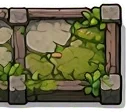
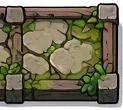
Solo losetas enteras y tropas de pie sobre la loseta
Las de la izquierda de cada pareja de la hoja no tenían el poste derecho y la última de cada fila salía cortada.

diff --git a/sw.js b/sw.js
@@ -2,8 +2,8 @@
 // Guarda el juego para poder jugar sin conexión. Página, JS y CSS van
 // primero a la red (así se ven los cambios al momento); imágenes y fuentes
 // salen de la caché y se renuevan por detrás.
-var CACHE = 'reino-de-torres-v76';
-var CORE = ['./', 'index.html', 'style.css', 'favicon.svg', 'manifest.json', 'js/data.js', 'js/version.js', 'js/art.js', 'js/meta.js', 'js/board.js', 'js/battle.js', 'js/ui.js', 'assets/ui/boton.webp', 'assets/ui/boton-jugar.webp', 'assets/ui/banner-mazo.webp', 'assets/ui/hueco-cofre.webp', 'assets/ui/boton-duelo.webp', 'assets/ui/boton-coop.webp', 'assets/ui/banner-comandante.webp', 'assets/ui/header.webp', 'assets/ui/navbar.webp', 'assets/ui/titulo.webp', 'assets/ui/letrero.webp', 'assets/tablero.webp', 'assets/enemies/blob.webp', 'assets/ui/fondo.webp', 'assets/ui/boton-invocar.webp', 'assets/ui/marco-carta.webp', 'assets/ui/carta.webp', 'assets/ui/vida.webp', 'assets/ui/mana.webp', 'assets/ui/contador-mana.webp', 'assets/ui/comandante.webp', 'assets/ui/boton-invocar-2.webp', 'assets/ui/boton-invocar-gris.webp', 'assets/ui/marco.webp', 'assets/ui/marco-tienda.webp', 'assets/ui/filtro-rareza.webp', 'assets/ui/filtro-rareza-h.webp?v=2', 'assets/ui/modo-campana.webp', 'assets/ui/modo-duelo.webp', 'assets/ui/modo-coop.webp', 'assets/ui/modo-torneo.webp', 'assets/ui/modo-coop-limpio.webp', 'assets/ui/modo-roguelike.webp', 'assets/chests/destello.webp', 'assets/chests/moneda.webp', 'assets/chests/oro-monedas.webp', 'assets/chests/oro-saco.webp', 'assets/chests/oro-cofre.webp', 'assets/commanders/aria.webp?v=2', 'assets/commanders/aria-cuerpo.webp', 'assets/commanders/merlo.webp?v=2', 'assets/commanders/merlo-cuerpo.webp', 'assets/commanders/brann.webp?v=2', 'assets/commanders/brann-cuerpo.webp', 'assets/commanders/nyx.webp', 'assets/commanders/nyx-cuerpo.webp', 'assets/commanders/sol.webp', 'assets/commanders/sol-cuerpo.webp', 'assets/commanders/morgana.webp', 'assets/commanders/morgana-cuerpo.webp', 'assets/commanders/torvald.webp', 'assets/commanders/torvald-cuerpo.webp', 'assets/events/eclipse.webp', 'assets/events/lluvia.webp', 'assets/events/niebla.webp', 'assets/events/horda.webp', 'assets/events/calma.webp', 'assets/boards/lava2.webp', 'assets/boards/hielo.webp', 'assets/boards/roca.webp', 'assets/boards/veneno.webp', 'assets/ui/tarjeta-tienda.webp', 'assets/ui/misiones.webp', 'assets/fx/eco-resuena.webp', 'assets/fx/fusion-eco.webp', 'assets/fx/oria-interes.webp', 'assets/fx/garra-lobo.webp', 'assets/fx/garra-lobo-2.webp', 'assets/ui/tarjeta-comandante-2.webp', 'assets/ui/arbol-talentos.webp', 'assets/ui/arbol-comandante.webp', 'assets/fx/nyx-maldicion.webp', 'assets/fx/nyx-chispas.webp', 'assets/fx/sol-escudo.webp', 'assets/fx/morgana-ensamblaje.webp', 'assets/fx/torvald-forja.webp', 'assets/fx/torvald-carga.webp', 'assets/fx/ventisca.webp', 'assets/fx/marea.webp', 'assets/fx/meteoro.webp', 'assets/fx/crater.webp', 'assets/fx/boreas-ventisca.webp', 'assets/fx/midas-critico.webp', 'assets/fx/estado-helado.webp', 'assets/fx/estado-armadura.webp', 'assets/fx/estado-quemado.webp', 'assets/fx/estado-veneno.webp', 'assets/fx/estado-critico.webp', 'assets/fx/estado-aturdido.webp', 'assets/chests/oro-rebosante.webp', 'assets/tiles/altar.webp', 'assets/tiles/fuente.webp', 'assets/tiles/atalaya.webp', 'assets/fx/muerte-puf.webp', 'assets/fx/invocar.webp', 'assets/fx/fusion.webp', 'assets/fx/fusion-doblon.webp', 'assets/fx/mover.webp', 'assets/fx/ralentizado-1.webp', 'assets/fx/ralentizado-2.webp', 'assets/fx/ralentizado-3.webp', 'assets/fx/ralentizado-4.webp', 'assets/fx/ralentizado-5.webp', 'assets/fx/conector-fuego.webp', 'assets/fx/conector-hielo.webp', 'assets/fx/conector-naturaleza.webp', 'assets/fx/conector-arcano.webp', 'assets/fx/conector-metal.webp', 'assets/ui/cartel-entrada.webp', 'assets/ui/cartel-salida.webp'].concat(['lyra', 'brasa', 'nivea', 'doblon', 'rocco', 'volta', 'mirra', 'melodia', 'sombra', 'cronos', 'halcon', 'ulric', 'fenix', 'aurora', 'titan', 'boreas', 'midas', 'kaia', 'seren', 'oria', 'garra'].map(function (id) { return 'assets/cells/' + id + '.webp'; })).concat(['piedra-1'].map(function (k) { return 'assets/tiles/' + k + '.webp?v=2'; })).concat([['bosque', 12], ['lava', 12], ['hielo', 4], ['veneno', 12], ['roca', 12]].reduce(function (a, t) { for (var n = 1; n <= t[1]; n++) a.push('assets/tiles/' + t[0] + '-' + n + '.webp?v=2'); return a; }, [])).concat(['comun', 'rara', 'epica', 'mitica', 'legendaria'].map(function (k) { return 'assets/ui/tienda-' + k + '.webp'; })).concat(['lyra', 'brasa', 'nivea', 'doblon', 'rocco', 'volta', 'mirra', 'melodia', 'sombra', 'cronos', 'halcon', 'ulric', 'fenix', 'aurora', 'titan', 'boreas', 'midas', 'kaia', 'seren', 'eco', 'oria', 'garra'].map(function (id) { return 'assets/units/' + id + '.webp'; })).concat(['lyra', 'brasa', 'nivea', 'doblon', 'rocco', 'volta', 'mirra', 'melodia', 'sombra', 'cronos', 'halcon', 'ulric', 'fenix', 'aurora', 'titan', 'boreas', 'midas', 'kaia', 'seren'].reduce(function (a, id) { return a.concat(['assets/units/board/' + id + '-idle.webp?v=3', 'assets/units/board/' + id + '-attack.webp']); }, [])).concat(['eco', 'oria', 'garra'].map(function (id) { return 'assets/units/board/' + id + '-idle.webp?v=3'; })).concat(['madera', 'plata', 'oro', 'comandante', 'legendario'].reduce(function (a, k) { return a.concat(['assets/chests/' + k + '.webp', 'assets/chests/' + k + '-abierto.webp', 'assets/chests/portal-' + k + '.webp']); }, ['assets/chests/legendario-abriendo.webp']).concat(['comun', 'rara', 'epica', 'mitica', 'legendaria'].reduce(function (a, k) { return a.concat(['assets/ui/fondo-carta-' + k + '.webp', 'assets/ui/cinta-' + k + '.webp']); }, []))).concat(['fuego', 'hielo', 'veneno', 'canon', 'flecha', 'rayo', 'sombra', 'engranaje', 'bala', 'luz'].reduce(function (a, k) { return a.concat(['destello', 'bola', 'impacto'].map(function (p) { return 'assets/fx/' + k + '-' + p + '.webp'; })); }, [])).concat(['moneda', 'gema', 'trofeo', 'estrella', 'gota', 'corona', 'espadas', 'escudo', 'candado', 'pergamino', 'ticket', 'reloj', 'fuego', 'hielo', 'hoja', 'arcano', 'engranaje', 'explosion', 'veneno', 'rayo', 'critico', 'perfora', 'musica', 'diana', 'grafico', 'vecinas', 'chispas', 'calavera', 'ola', 'rival-facil', 'rival-normal', 'rival-dificil', 'derrota', 'sonido', 'silencio', 'rapido', 'reiniciar', 'casa', 'aviso', 'mano', 'dado', 'recolocar', 'mejorar'].map(function (k) { return 'assets/icons/' + k + '.webp'; })).concat(['ghost', 'brute', 'orco', 'rocoso', 'escarcha', 'gelido', 'coloso', 'coloso2', 'nigro', 'dragon'].map(function (id) { return 'assets/enemies/' + id + '.webp'; }));
+var CACHE = 'reino-de-torres-v77';
+var CORE = ['./', 'index.html', 'style.css', 'favicon.svg', 'manifest.json', 'js/data.js', 'js/version.js', 'js/art.js', 'js/meta.js', 'js/board.js', 'js/battle.js', 'js/ui.js', 'assets/ui/boton.webp', 'assets/ui/boton-jugar.webp', 'assets/ui/banner-mazo.webp', 'assets/ui/hueco-cofre.webp', 'assets/ui/boton-duelo.webp', 'assets/ui/boton-coop.webp', 'assets/ui/banner-comandante.webp', 'assets/ui/header.webp', 'assets/ui/navbar.webp', 'assets/ui/titulo.webp', 'assets/ui/letrero.webp', 'assets/tablero.webp', 'assets/enemies/blob.webp', 'assets/ui/fondo.webp', 'assets/ui/boton-invocar.webp', 'assets/ui/marco-carta.webp', 'assets/ui/carta.webp', 'assets/ui/vida.webp', 'assets/ui/mana.webp', 'assets/ui/contador-mana.webp', 'assets/ui/comandante.webp', 'assets/ui/boton-invocar-2.webp', 'assets/ui/boton-invocar-gris.webp', 'assets/ui/marco.webp', 'assets/ui/marco-tienda.webp', 'assets/ui/filtro-rareza.webp', 'assets/ui/filtro-rareza-h.webp?v=2', 'assets/ui/modo-campana.webp', 'assets/ui/modo-duelo.webp', 'assets/ui/modo-coop.webp', 'assets/ui/modo-torneo.webp', 'assets/ui/modo-coop-limpio.webp', 'assets/ui/modo-roguelike.webp', 'assets/chests/destello.webp', 'assets/chests/moneda.webp', 'assets/chests/oro-monedas.webp', 'assets/chests/oro-saco.webp', 'assets/chests/oro-cofre.webp', 'assets/commanders/aria.webp?v=2', 'assets/commanders/aria-cuerpo.webp', 'assets/commanders/merlo.webp?v=2', 'assets/commanders/merlo-cuerpo.webp', 'assets/commanders/brann.webp?v=2', 'assets/commanders/brann-cuerpo.webp', 'assets/commanders/nyx.webp', 'assets/commanders/nyx-cuerpo.webp', 'assets/commanders/sol.webp', 'assets/commanders/sol-cuerpo.webp', 'assets/commanders/morgana.webp', 'assets/commanders/morgana-cuerpo.webp', 'assets/commanders/torvald.webp', 'assets/commanders/torvald-cuerpo.webp', 'assets/events/eclipse.webp', 'assets/events/lluvia.webp', 'assets/events/niebla.webp', 'assets/events/horda.webp', 'assets/events/calma.webp', 'assets/boards/lava2.webp', 'assets/boards/hielo.webp', 'assets/boards/roca.webp', 'assets/boards/veneno.webp', 'assets/ui/tarjeta-tienda.webp', 'assets/ui/misiones.webp', 'assets/fx/eco-resuena.webp', 'assets/fx/fusion-eco.webp', 'assets/fx/oria-interes.webp', 'assets/fx/garra-lobo.webp', 'assets/fx/garra-lobo-2.webp', 'assets/ui/tarjeta-comandante-2.webp', 'assets/ui/arbol-talentos.webp', 'assets/ui/arbol-comandante.webp', 'assets/fx/nyx-maldicion.webp', 'assets/fx/nyx-chispas.webp', 'assets/fx/sol-escudo.webp', 'assets/fx/morgana-ensamblaje.webp', 'assets/fx/torvald-forja.webp', 'assets/fx/torvald-carga.webp', 'assets/fx/ventisca.webp', 'assets/fx/marea.webp', 'assets/fx/meteoro.webp', 'assets/fx/crater.webp', 'assets/fx/boreas-ventisca.webp', 'assets/fx/midas-critico.webp', 'assets/fx/estado-helado.webp', 'assets/fx/estado-armadura.webp', 'assets/fx/estado-quemado.webp', 'assets/fx/estado-veneno.webp', 'assets/fx/estado-critico.webp', 'assets/fx/estado-aturdido.webp', 'assets/chests/oro-rebosante.webp', 'assets/tiles/altar.webp', 'assets/tiles/fuente.webp', 'assets/tiles/atalaya.webp', 'assets/fx/muerte-puf.webp', 'assets/fx/invocar.webp', 'assets/fx/fusion.webp', 'assets/fx/fusion-doblon.webp', 'assets/fx/mover.webp', 'assets/fx/ralentizado-1.webp', 'assets/fx/ralentizado-2.webp', 'assets/fx/ralentizado-3.webp', 'assets/fx/ralentizado-4.webp', 'assets/fx/ralentizado-5.webp', 'assets/fx/conector-fuego.webp', 'assets/fx/conector-hielo.webp', 'assets/fx/conector-naturaleza.webp', 'assets/fx/conector-arcano.webp', 'assets/fx/conector-metal.webp', 'assets/ui/cartel-entrada.webp', 'assets/ui/cartel-salida.webp'].concat(['lyra', 'brasa', 'nivea', 'doblon', 'rocco', 'volta', 'mirra', 'melodia', 'sombra', 'cronos', 'halcon', 'ulric', 'fenix', 'aurora', 'titan', 'boreas', 'midas', 'kaia', 'seren', 'oria', 'garra'].map(function (id) { return 'assets/cells/' + id + '.webp'; })).concat(['piedra-1'].map(function (k) { return 'assets/tiles/' + k + '.webp?v=2'; })).concat([['bosque', 6], ['lava', 6], ['hielo', 2], ['veneno', 6], ['roca', 12]].reduce(function (a, t) { for (var n = 1; n <= t[1]; n++) a.push('assets/tiles/' + t[0] + '-' + n + '.webp?v=2'); return a; }, [])).concat(['comun', 'rara', 'epica', 'mitica', 'legendaria'].map(function (k) { return 'assets/ui/tienda-' + k + '.webp'; })).concat(['lyra', 'brasa', 'nivea', 'doblon', 'rocco', 'volta', 'mirra', 'melodia', 'sombra', 'cronos', 'halcon', 'ulric', 'fenix', 'aurora', 'titan', 'boreas', 'midas', 'kaia', 'seren', 'eco', 'oria', 'garra'].map(function (id) { return 'assets/units/' + id + '.webp'; })).concat(['lyra', 'brasa', 'nivea', 'doblon', 'rocco', 'volta', 'mirra', 'melodia', 'sombra', 'cronos', 'halcon', 'ulric', 'fenix', 'aurora', 'titan', 'boreas', 'midas', 'kaia', 'seren'].reduce(function (a, id) { return a.concat(['assets/units/board/' + id + '-idle.webp?v=3', 'assets/units/board/' + id + '-attack.webp']); }, [])).concat(['eco', 'oria', 'garra'].map(function (id) { return 'assets/units/board/' + id + '-idle.webp?v=3'; })).concat(['madera', 'plata', 'oro', 'comandante', 'legendario'].reduce(function (a, k) { return a.concat(['assets/chests/' + k + '.webp', 'assets/chests/' + k + '-abierto.webp', 'assets/chests/portal-' + k + '.webp']); }, ['assets/chests/legendario-abriendo.webp']).concat(['comun', 'rara', 'epica', 'mitica', 'legendaria'].reduce(function (a, k) { return a.concat(['assets/ui/fondo-carta-' + k + '.webp', 'assets/ui/cinta-' + k + '.webp']); }, []))).concat(['fuego', 'hielo', 'veneno', 'canon', 'flecha', 'rayo', 'sombra', 'engranaje', 'bala', 'luz'].reduce(function (a, k) { return a.concat(['destello', 'bola', 'impacto'].map(function (p) { return 'assets/fx/' + k + '-' + p + '.webp'; })); }, [])).concat(['moneda', 'gema', 'trofeo', 'estrella', 'gota', 'corona', 'espadas', 'escudo', 'candado', 'pergamino', 'ticket', 'reloj', 'fuego', 'hielo', 'hoja', 'arcano', 'engranaje', 'explosion', 'veneno', 'rayo', 'critico', 'perfora', 'musica', 'diana', 'grafico', 'vecinas', 'chispas', 'calavera', 'ola', 'rival-facil', 'rival-normal', 'rival-dificil', 'derrota', 'sonido', 'silencio', 'rapido', 'reiniciar', 'casa', 'aviso', 'mano', 'dado', 'recolocar', 'mejorar'].map(function (k) { return 'assets/icons/' + k + '.webp'; })).concat(['ghost', 'brute', 'orco', 'rocoso', 'escarcha', 'gelido', 'coloso', 'coloso2', 'nigro', 'dragon'].map(function (id) { return 'assets/enemies/' + id + '.webp'; }));
 self.addEventListener('install', function (e) { e.waitUntil(caches.open(CACHE).then(function (c) { return c.addAll(CORE); }).then(function () { return self.skipWaiting(); })); });
 self.addEventListener('activate', function (e) { e.waitUntil(caches.keys().then(function (ks) { return Promise.all(ks.filter(function (k) { return k !== CACHE; }).map(function (k) { return caches.delete(k); })); }).then(function () { return self.clients.claim(); })); });
 self.addEventListener('fetch', function (e) {

diff --git a/js/battle.js b/js/battle.js
@@ -818,16 +818,16 @@ function drawBoard(b, L, now, isMain) {
       ctx.strokeStyle = '#ffffff'; ctx.lineWidth = 0.07;
       rrect(ctx, cc2.x - G.cw * 0.47, cc2.y - G.ch * 0.47, G.cw * 0.94, G.ch * 0.94, 0.14); ctx.stroke();
     }
-    var r = 0.42 * Math.min(G.cw, G.ch) * (1 + u.anim * 0.25);
+    var r = 0.42 * Math.min(G.cw, G.ch) * (1 + u.anim * 0.25), uy = cc2.y - 0.02 - unitLift(b, i, G);
     // al invocar cae y rebota; al fusionar se estira (desde los pies)
     var pose = summonPose(u.drop) || mergePose(u.pop);
     if (pose) {
-      var footY = cc2.y - 0.02 + r * 0.9;
+      var footY = uy + r * 0.9;
       ctx.save();
       ctx.globalAlpha *= pose.a;
       ctx.translate(cc2.x, footY + pose.dy); ctx.scale(pose.sx, pose.sy); ctx.translate(-cc2.x, -footY);
     }
-    drawUnit(ctx, u.id, cc2.x, cc2.y - 0.02, r, u.rank, now, { frozen: u.frozen > 0, board: true, atk: u.atk, aim: u.aim, recoil: u.recoil || 0, flash: pose ? pose.flash : 0 });
+    drawUnit(ctx, u.id, cc2.x, uy, r, u.rank, now, { frozen: u.frozen > 0, board: true, atk: u.atk, aim: u.aim, recoil: u.recoil || 0, flash: pose ? pose.flash : 0 });
     if (pose) ctx.restore();
     if (b.tiles[i]) drawTileIcon(b.tiles[i], cc2.x + G.cw * 0.33, cc2.y - G.ch * 0.33, 0.13);
     ctx.globalAlpha = 1;
@@ -1019,6 +1019,7 @@ function drawCellAuras(b, G, now) {
     var pic = art('cells/' + u.id), d = UNITS[u.id];
     if (!pic) continue;
     var c = b.cc(i), pulse = 0.5 + 0.5 * Math.sin(now / 420 + i), a, k = 1;
+    c = { x: c.x, y: c.y - unitLift(b, i, G) };
     if (d.twin) {
       // aura doble entre cada pareja de Nívea (una vez por pareja)
       neighbors(i).forEach(function (j) {
@@ -1154,6 +1155,10 @@ function drawPathSigns(G) {
 }
 /* Losa de cada casilla: la del juego de su tablero (b.floor, al azar en
    cada partida); se ve de frente, con su canto abajo. Sin ella, la lisa. */
+// con loseta de canto, la tropa sube un poco para pisar su cara de arriba
+// (si no, los pies le quedan en el borde de abajo)
+var FLOOR_LIFT = 0.16;
+function unitLift(b, i, G) { return b.floor && b.floor[i] !== STONE_TILE && art('tiles/' + b.floor[i]) ? G.ch * FLOOR_LIFT : 0; }
 // dónde se pinta la loseta de una casilla (null si es la lisa o no ha cargado)
 function floorRect(b, i, cc, G) {
   var pic = b.floor && b.floor[i] !== STONE_TILE && art('tiles/' + b.floor[i]);

diff --git a/js/data.js b/js/data.js
@@ -401,8 +401,9 @@ var ELEMENTS = {
 Object.keys(ELEMENTS).forEach(function (k) { ELEMENTS[k].color = GAME_PALETTE.elements[k]; });
 var AFFINITY_BONUS = 0.12;
 
-// losetas de cada tablero (assets/tiles/<juego>-<n>, de assets/losetas-nuevas.jpg)
-var FIELD_TILES = { prado: { set: 'bosque', n: 12 }, lava2: { set: 'lava', n: 12 }, hielo: { set: 'hielo', n: 4 }, veneno: { set: 'veneno', n: 12 }, roca: { set: 'roca', n: 12 } };
+// losetas de cada tablero (assets/tiles/<juego>-<n>, de assets/losetas-nuevas.jpg:
+// de las enmarcadas, solo las enteras, con sus dos postes)
+var FIELD_TILES = { prado: { set: 'bosque', n: 6 }, lava2: { set: 'lava', n: 6 }, hielo: { set: 'hielo', n: 2 }, veneno: { set: 'veneno', n: 6 }, roca: { set: 'roca', n: 12 } };
 var STONE_TILE = 'piedra-1';
 
 /* Casillas especiales del tablero: cambian en cada partida. */

diff --git a/js/version.js b/js/version.js
@@ -7,8 +7,16 @@
    La ventana sale sola al entrar con una versión nueva (meta.lastSeenVersion)
    y también desde Opciones.
    ========================================================= */
-var APP_VERSION = '1.17.4';
+var APP_VERSION = '1.17.5';
 var APP_PATCH_NOTES = [
+  {
+    version: '1.17.5',
+    summary: 'Losetas enteras y tropas encima de ellas',
+    items: [
+      'La última loseta de cada fila ya no sale cortada en el prado, la lava, el veneno y el hielo.',
+      'Las tropas pisan la loseta en vez de quedarse en su borde de abajo, también en el vídeo de cada tropa.'
+    ]
+  },
   {
     version: '1.17.4',
     summary: 'Casillas especiales bien encajadas también en lava',

diff --git a/js/ui.js b/js/ui.js
@@ -911,7 +911,7 @@ function startCardDemo(cv, id) {
     for (var i = 0; i < 2; i++) {
       if (!b.cells[i]) continue;
       var c = b.cc(i), u = b.cells[i];
-      drawUnit(dc, u.id, c.x, c.y - 0.02, 0.42 * ch * (1 + u.anim * 0.25), u.rank, t, { board: true, atk: u.atk, aim: u.aim, recoil: u.recoil || 0 });
+      drawUnit(dc, u.id, c.x, c.y - 0.02 - ch * FLOOR_LIFT, 0.42 * ch * (1 + u.anim * 0.25), u.rank, t, { board: true, atk: u.atk, aim: u.aim, recoil: u.recoil || 0 });
     }
     b.enemies.slice().sort(function (p, q) { return p.y - q.y; }).forEach(function (e) {
       drawEnemy(dc, e, ENEMIES[e.kind].size * 0.82, t);

diff --git a/index.html b/index.html
@@ -57,12 +57,12 @@
   <div id="overlay" class="overlay" hidden></div>
   <div id="toast" class="toast"></div>
 
-  <script src="js/data.js?v=44"></script>
-  <script src="js/version.js?v=38"></script>
+  <script src="js/data.js?v=45"></script>
+  <script src="js/version.js?v=39"></script>
   <script src="js/art.js?v=42"></script>
   <script src="js/meta.js?v=28"></script>
   <script src="js/board.js?v=44"></script>
-  <script src="js/battle.js?v=53"></script>
-  <script src="js/ui.js?v=65"></script>
+  <script src="js/battle.js?v=54"></script>
+  <script src="js/ui.js?v=66"></script>
 </body>
 </html>
